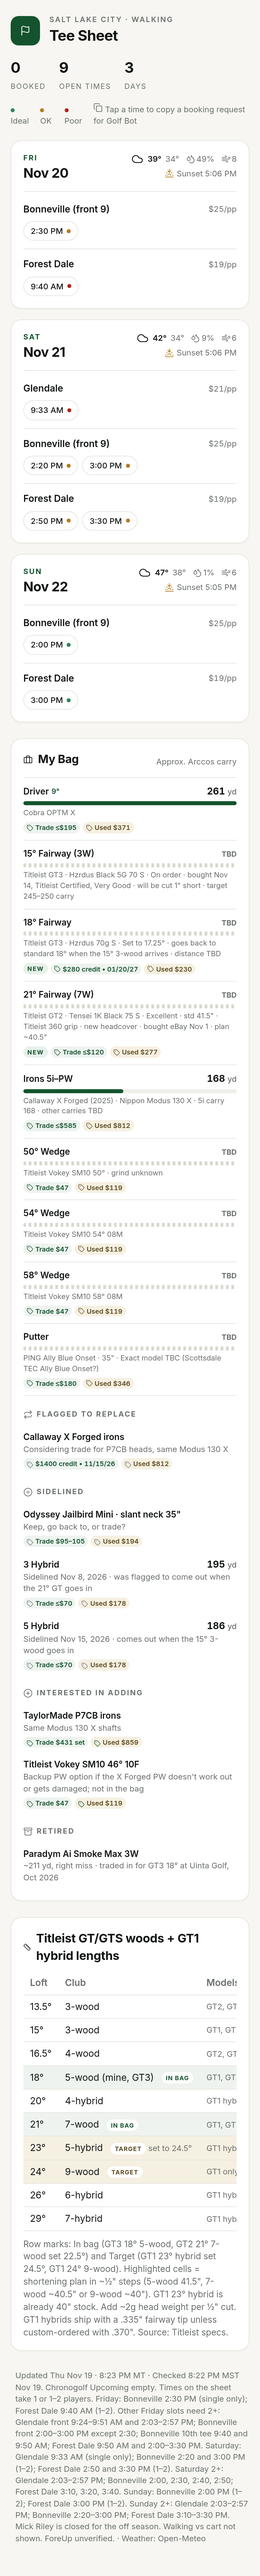
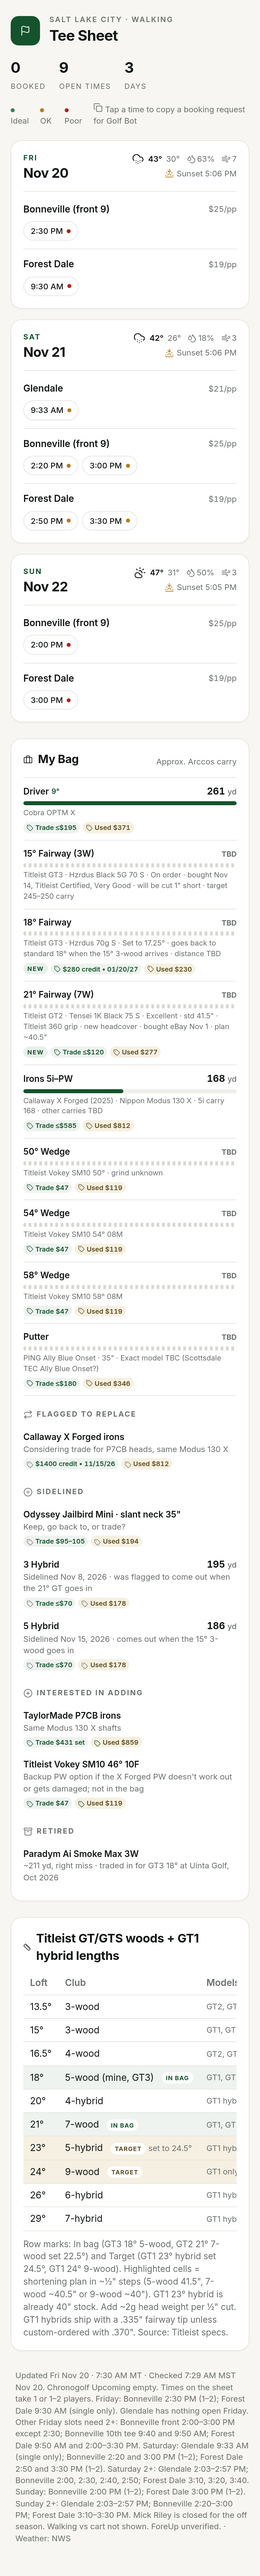
Update schedule 2026-11-20 07:30 MT

Changed region(s): [[0.0615, 0.9027, 0.9538, 0.9961]]

diff --git a/index.html b/index.html
@@ -49,8 +49,8 @@ ul{list-style:none;margin:0;padding:0}.ladder{border-top:1px solid var(--ln)}
 <div class="top"><div class="brand"><div class="logo"><i data-lucide="flag" class="ic "></i></div><div><div class="eyebrow">Salt Lake City · Walking</div><h1>Tee Sheet</h1></div></div>
 <div class="stats"><div class="stat"><b>0</b><span>Booked</span></div><div class="stat"><b>9</b><span>Open times</span></div><div class="stat"><b>3</b><span>Days</span></div></div></div>
 <div class="legend"><span><i class="dot ideal"></i>Ideal</span><span><i class="dot ok"></i>OK</span><span><i class="dot poor"></i>Poor</span><span><i data-lucide="copy" class="ic s"></i> Tap a time to copy a booking request for Golf Bot</span></div>
-<div class="layout"><div class="grid"><section class="card day"><header><div><div class="dow">Fri</div><div class="dt">Nov 20</div></div><div class="wxc"><div class="sum" title="☁ Overcast (7a–7p)"><i data-lucide="cloud" class="ic "></i><span class="hi">39°</span><span class="lo">34°</span><span class="m"><i data-lucide="droplets" class="ic s"></i>49%</span><span class="m"><i data-lucide="wind" class="ic s"></i>8</span></div><div class="sun"><i data-lucide="sunset" class="ic s"></i>Sunset 5:06 PM</div></div></header><div class="crs"><div class="row"><span class="cn">Bonneville (front 9)</span><span class="pr">$25/pp</span></div><div class="tts"><button class="tt ok" data-msg="Book Bonneville (front 9) Fri Nov 20 2:30 PM" title="☁ Overcast · 39°F · 14% precip · 5 mph · tap to copy booking request" aria-label="Copy: Book Bonneville (front 9) Fri Nov 20 2:30 PM" onclick="cp(this)"><span>2:30 PM</span><i class="dot"></i></button></div></div><div class="crs"><div class="row"><span class="cn">Forest Dale</span><span class="pr">$19/pp</span></div><div class="tts"><button class="tt poor" data-msg="Book Forest Dale Fri Nov 20 9:40 AM" title="☁ Overcast · 38°F · 22% precip · 2 mph · tap to copy booking request" aria-label="Copy: Book Forest Dale Fri Nov 20 9:40 AM" onclick="cp(this)"><span>9:40 AM</span><i class="dot"></i></button></div></div></section><section class="card day"><header><div><div class="dow">Sat</div><div class="dt">Nov 21</div></div><div class="wxc"><div class="sum" title="☁ Overcast (7a–7p)"><i data-lucide="cloud" class="ic "></i><span class="hi">42°</span><span class="lo">34°</span><span class="m"><i data-lucide="droplets" class="ic s"></i>9%</span><span class="m"><i data-lucide="wind" class="ic s"></i>6</span></div><div class="sun"><i data-lucide="sunset" class="ic s"></i>Sunset 5:06 PM</div></div></header><div class="crs"><div class="row"><span class="cn">Glendale</span><span class="pr">$21/pp</span></div><div class="tts"><button class="tt poor" data-msg="Book Glendale Sat Nov 21 9:33 AM" title="☁ Overcast · 36°F · 9% precip · 3 mph · tap to copy booking request" aria-label="Copy: Book Glendale Sat Nov 21 9:33 AM" onclick="cp(this)"><span>9:33 AM</span><i class="dot"></i></button></div></div><div class="crs"><div class="row"><span class="cn">Bonneville (front 9)</span><span class="pr">$25/pp</span></div><div class="tts"><button class="tt ok" data-msg="Book Bonneville (front 9) Sat Nov 21 2:20 PM" title="☀ Clear · 41°F · 1% precip · 3 mph · tap to copy booking request" aria-label="Copy: Book Bonneville (front 9) Sat Nov 21 2:20 PM" onclick="cp(this)"><span>2:20 PM</span><i class="dot"></i></button><button class="tt ok" data-msg="Book Bonneville (front 9) Sat Nov 21 3:00 PM" title="🌤 Mostly clear · 42°F · 1% precip · 4 mph · tap to copy booking request" aria-label="Copy: Book Bonneville (front 9) Sat Nov 21 3:00 PM" onclick="cp(this)"><span>3:00 PM</span><i class="dot"></i></button></div></div><div class="crs"><div class="row"><span class="cn">Forest Dale</span><span class="pr">$19/pp</span></div><div class="tts"><button class="tt ok" data-msg="Book Forest Dale Sat Nov 21 2:50 PM" title="☀ Clear · 41°F · 1% precip · 3 mph · tap to copy booking request" aria-label="Copy: Book Forest Dale Sat Nov 21 2:50 PM" onclick="cp(this)"><span>2:50 PM</span><i class="dot"></i></button><button class="tt ok" data-msg="Book Forest Dale Sat Nov 21 3:30 PM" title="🌤 Mostly clear · 42°F · 1% precip · 4 mph · tap to copy booking request" aria-label="Copy: Book Forest Dale Sat Nov 21 3:30 PM" onclick="cp(this)"><span>3:30 PM</span><i class="dot"></i></button></div></div></section><section class="card day"><header><div><div class="dow">Sun</div><div class="dt">Nov 22</div></div><div class="wxc"><div class="sum" title="☁ Overcast (7a–7p)"><i data-lucide="cloud" class="ic "></i><span class="hi">47°</span><span class="lo">38°</span><span class="m"><i data-lucide="droplets" class="ic s"></i>1%</span><span class="m"><i data-lucide="wind" class="ic s"></i>6</span></div><div class="sun"><i data-lucide="sunset" class="ic s"></i>Sunset 5:05 PM</div></div></header><div class="crs"><div class="row"><span class="cn">Bonneville (front 9)</span><span class="pr">$25/pp</span></div><div class="tts"><button class="tt ideal" data-msg="Book Bonneville (front 9) Sun Nov 22 2:00 PM" title="☁ Overcast · 47°F · 0% precip · 6 mph · tap to copy booking request" aria-label="Copy: Book Bonneville (front 9) Sun Nov 22 2:00 PM" onclick="cp(this)"><span>2:00 PM</span><i class="dot"></i></button></div></div><div class="crs"><div class="row"><span class="cn">Forest Dale</span><span class="pr">$19/pp</span></div><div class="tts"><button class="tt ideal" data-msg="Book Forest Dale Sun Nov 22 3:00 PM" title="☁ Overcast · 47°F · 0% precip · 5 mph · tap to copy booking request" aria-label="Copy: Book Forest Dale Sun Nov 22 3:00 PM" onclick="cp(this)"><span>3:00 PM</span><i class="dot"></i></button></div></div></section></div><section class="card bag"><header><h2><i data-lucide="briefcase" class="ic s"></i>My Bag</h2><span class="muted">Approx. Arccos carry</span></header><ul class="ladder"><li class="lad"><div class="l1"><div class="cname">Driver <small>9°</small></div><div class="yd">261 <small>yd</small></div></div><div class="bar"><span style="width:100%"></span></div><div class="muted">Cobra OPTM X</div><div class=bdg><span class="val" title="On in Two trade-in (up-to ceiling) · Cobra OPTM X driver · 2026-11-16"><i data-lucide="tag" class="ic xs"></i>Trade ≤$195</span><span class="val used" title="2nd Swing used OPTM X Stiff: 9° Mint $379.99 (Kai&#x27;li White 60), 10.5° Above Average $362.99 · 2026-11-02"><i data-lucide="tag" class="ic xs"></i>Used $371</span></div></li><li class="lad"><div class="l1"><div class="cname">15° Fairway (3W)</div><div class="yd muted">TBD</div></div><div class="bar tbd"><span></span></div><div class="muted">Titleist GT3 · Hzrdus Black 5G 70 S · On order · bought Nov 14, Titleist Certified, Very Good · will be cut 1&quot; short · target 245–250 carry</div></li><li class="lad"><div class="l1"><div class="cname">18° Fairway</div><div class="yd muted">TBD</div></div><div class="bar tbd"><span></span></div><div class="muted">Titleist GT3 · Hzrdus 70g S · Set to 17.25° · goes back to standard 18° when the 15° 3-wood arrives · distance TBD</div><div class=bdg><span class="pill sm">New</span><span class="val" title="Uinta Golf 90-day guarantee, bought Oct 22, 2026 · 2026-10-22"><i data-lucide="tag" class="ic xs"></i>$280 credit • 01/20/27</span><span class="val used" title="Global Golf used GT3 fairway Excellent $229.99; eBay sold GT3 18° 5W median $231 (Teeworth, 90 days) · 2026-10-26"><i data-lucide="tag" class="ic xs"></i>Used $230</span></div></li><li class="lad"><div class="l1"><div class="cname">21° Fairway (7W)</div><div class="yd muted">TBD</div></div><div class="bar tbd"><span></span></div><div class="muted">Titleist GT2 · Tensei 1K Black 75 S · Excellent · std 41.5&quot; · Titleist 360 grip · new headcover · bought eBay Nov 1 · plan ~40.5&quot;</div><div class=bdg><span class="pill sm">New</span><span class="val" title="On in Two trade-in (up-to ceiling, excellent) · Titleist GT2 fairway · 2026-11-16"><i data-lucide="tag" class="ic xs"></i>Trade ≤$120</span><span class="val used" title="Avg of Global Golf GT2 Very Good $264.99 and Next Round GT2 Excellent $289.99; eBay sold median $200 (45 sales, Face Value Golf) · 2026-10-26"><i data-lucide="tag" class="ic xs"></i>Used $277</span></div></li><li class="lad"><div class="l1"><div class="cname">Irons 5i–PW</div><div class="yd">168 <small>yd</small></div></div><div class="bar"><span style="width:47%"></span></div><div class="muted">Callaway X Forged (2025) · Nippon Modus 130 X · 5i carry 168 · other carries TBD</div><div class=bdg><span class="val" title="On in Two trade-in (up-to ceiling) · Callaway 2025 X Forged iron set; set composition/shaft not specified, so 5i–PW offer may differ · 2026-11-16"><i data-lucide="tag" class="ic xs"></i>Trade ≤$585</span><span class="val used" title="FairwayWire eBay sold avg, X Forged 2025 set (18 sales, mostly 4-PW, mixed shafts); Excellent/Very Good sales $986–$1,200 · 2026-10-26"><i data-lucide="tag" class="ic xs"></i>Used $812</span></div></li><li class="lad"><div class="l1"><div class="cname">50° Wedge</div><div class="yd muted">TBD</div></div><div class="bar tbd"><span></span></div><div class="muted">Titleist Vokey SM10 50° · grind unknown</div><div class=bdg><span class="val" title="2nd Swing store credit via Face Value Golf (SM10 family, avg cond., checked Nov 14); best cash $45–47 · 2026-11-16"><i data-lucide="tag" class="ic xs"></i>Trade $47</span><span class="val used" title="Titleist Certified Pre-Owned SM10 Excellent $119 · 2026-10-26"><i data-lucide="tag" class="ic xs"></i>Used $119</span></div></li><li class="lad"><div class="l1"><div class="cname">54° Wedge</div><div class="yd muted">TBD</div></div><div class="bar tbd"><span></span></div><div class="muted">Titleist Vokey SM10 54° 08M</div><div class=bdg><span class="val" title="2nd Swing store credit via Face Value Golf (SM10 family, avg cond., checked Nov 14); best cash $45–47 · 2026-11-16"><i data-lucide="tag" class="ic xs"></i>Trade $47</span><span class="val used" title="Titleist Certified Pre-Owned SM10 Excellent $119 · 2026-10-26"><i data-lucide="tag" class="ic xs"></i>Used $119</span></div></li><li class="lad"><div class="l1"><div class="cname">58° Wedge</div><div class="yd muted">TBD</div></div><div class="bar tbd"><span></span></div><div class="muted">Titleist Vokey SM10 58° 08M</div><div class=bdg><span class="val" title="2nd Swing store credit via Face Value Golf (SM10 family, avg cond., checked Nov 14); best cash $45–47 · 2026-11-16"><i data-lucide="tag" class="ic xs"></i>Trade $47</span><span class="val used" title="Titleist Certified Pre-Owned SM10 Excellent $119 · 2026-10-26"><i data-lucide="tag" class="ic xs"></i>Used $119</span></div></li><li class="lad"><div class="l1"><div class="cname">Putter</div><div class="yd muted">TBD</div></div><div class="bar tbd"><span></span></div><div class="muted">PING Ally Blue Onset · 35&quot; · Exact model TBC (Scottsdale TEC Ally Blue Onset?)</div><div class=bdg><span class="val" title="On in Two trade-in (up-to ceiling) · Scottsdale TEC Ally Blue Onset; PLD SE Ally Blue 4 Onset $185 · 2026-11-16"><i data-lucide="tag" class="ic xs"></i>Trade ≤$180</span><span class="val used" title="ClubChecks used target, Scottsdale TEC Ally Blue Onset; Carl&#x27;s Golfland 35&quot; Very Good $349.99 · 2026-10-26"><i data-lucide="tag" class="ic xs"></i>Used $346</span></div></li></ul><div class="subs"><div class="sub"><h3><i data-lucide="repeat" class="ic s"></i>Flagged to replace</h3><ul class="lst replace"><li><div class="it"><div class="l1"><div class="cname">Callaway X Forged irons</div></div><div class="muted">Considering trade for P7CB heads, same Modus 130 X</div><div class=bdg><span class="val" title="Jason: trade-in guarantee value, trade by Nov 15, 2026 (deadline approx., per Jason) · 2026-10-26"><i data-lucide="tag" class="ic xs"></i>$1400 credit • 11/15/26</span><span class="val used" title="FairwayWire eBay sold avg, X Forged 2025 set (18 sales, mostly 4-PW, mixed shafts); Excellent/Very Good sales $986–$1,200 · 2026-10-26"><i data-lucide="tag" class="ic xs"></i>Used $812</span></div></div></li></ul></div><div class="sub"><h3><i data-lucide="pause-circle" class="ic s"></i>Sidelined</h3><ul class="lst sidelined"><li><div class="it"><div class="l1"><div class="cname">Odyssey Jailbird Mini · slant neck 35&quot;</div></div><div class="muted">Keep, go back to, or trade?</div><div class=bdg><span class="val" title="On in Two trade-in ceilings: Ai-ONE Jailbird Mini S $95 – Ai-DUAL Jailbird Mini $105 (exact version TBC) · 2026-11-16"><i data-lucide="tag" class="ic xs"></i>Trade $95–105</span><span class="val used" title="Golf Club Index avg sold, Odyssey Ai-ONE Jailbird Mini (exact version TBC) · 2026-10-26"><i data-lucide="tag" class="ic xs"></i>Used $194</span></div></div></li><li><div class="it"><div class="l1"><div class="cname">3 Hybrid</div><div class=yd>195 <small>yd</small></div></div><div class="muted">Sidelined Nov 8, 2026 · was flagged to come out when the 21° GT goes in</div><div class=bdg><span class="val" title="On in Two trade-in (up-to ceiling) · 2026-11-16"><i data-lucide="tag" class="ic xs"></i>Trade ≤$70</span><span class="val used" title="Face Value Golf typical used asking, Paradym Super hybrid Above Average grade (Callaway Pre-Owned from $120 Avg) · 2026-10-26"><i data-lucide="tag" class="ic xs"></i>Used $178</span></div></div></li><li><div class="it"><div class="l1"><div class="cname">5 Hybrid</div><div class=yd>186 <small>yd</small></div></div><div class="muted">Sidelined Nov 15, 2026 · comes out when the 15° 3-wood goes in</div><div class=bdg><span class="val" title="On in Two trade-in (up-to ceiling) · 2026-11-16"><i data-lucide="tag" class="ic xs"></i>Trade ≤$70</span><span class="val used" title="Face Value Golf typical used asking, Paradym Super hybrid Above Average grade (Callaway Pre-Owned from $120 Avg) · 2026-10-26"><i data-lucide="tag" class="ic xs"></i>Used $178</span></div></div></li></ul></div><div class="sub"><h3><i data-lucide="plus-circle" class="ic s"></i>Interested in adding</h3><ul class="lst add"><li><div class="it"><div class="l1"><div class="cname">TaylorMade P7CB irons</div></div><div class="muted">Same Modus 130 X shafts</div><div class=bdg><span class="val" title="Face Value Golf: best cash offer, iGolf Value Guide, 7-club set, Average ($61.50/club), checked Oct 11 · 2026-10-26"><i data-lucide="tag" class="ic xs"></i>Trade $431 set</span><span class="val used" title="Face Value Golf typical used asking, 7-club set, median of 44 listings (Average or better), checked Oct 11; Global Golf Average 4-PW $760 · 2026-10-26"><i data-lucide="tag" class="ic xs"></i>Used $859</span></div></div></li><li><div class="it"><div class="l1"><div class="cname">Titleist Vokey SM10 46° 10F</div></div><div class="muted">Backup PW option if the X Forged PW doesn&#x27;t work out or gets damaged; not in the bag</div><div class=bdg><span class="val" title="2nd Swing store credit via Face Value Golf (SM10 family, avg cond.) · 2026-10-23"><i data-lucide="tag" class="ic xs"></i>Trade $47</span><span class="val used" title="Titleist Certified Pre-Owned SM10 Excellent $119 · 2026-10-26"><i data-lucide="tag" class="ic xs"></i>Used $119</span></div></div></li></ul></div><div class="sub"><h3><i data-lucide="archive" class="ic s"></i>Retired</h3><ul class="lst retired"><li><div class="it"><div class="l1"><div class="cname">Paradym Ai Smoke Max 3W</div></div><div class="muted">~211 yd, right miss · traded in for GT3 18° at Uinta Golf, Oct 2026</div></div></li></ul></div></div></section></div><section class="card lenchart"><header><h2><i data-lucide="ruler" class="ic s"></i>Titleist GT/GTS woods + GT1 hybrid lengths</h2></header><div class="tw"><table><thead><tr><th>Loft</th><th>Club</th><th>Models</th><th>Std</th><th>−½"</th><th>−1"</th></tr></thead><tbody><tr><td>13.5°</td><td>3-wood</td><td class="muted">GT2, GTS2</td><td>43"</td><td>42.5"</td><td>42"</td></tr><tr><td>15°</td><td>3-wood</td><td class="muted">GT1, GT2, GT3, GTS</td><td>43"</td><td>42.5"</td><td>42"</td></tr><tr><td>16.5°</td><td>4-wood</td><td class="muted">GT2, GT3, GTS</td><td>43"</td><td>42.5"</td><td>42"</td></tr><tr class="inbag"><td>18°</td><td>5-wood (mine, GT3) <span class="mtag">In bag</span></td><td class="muted">GT1, GT2, GT3, GTS</td><td>42"</td><td class=hl>41.5"</td><td>41"</td></tr><tr><td>20°</td><td>4-hybrid</td><td class="muted">GT1 hybrid</td><td>40.5"</td><td>40"</td><td>39.5"</td></tr><tr class="inbag"><td>21°</td><td>7-wood <span class="mtag">In bag</span></td><td class="muted">GT1, GT2, GTS</td><td>41.5"</td><td>41"</td><td class=hl>40.5"</td></tr><tr class="target"><td>23°</td><td>5-hybrid <span class="mtag">Target</span> <span class="muted">set to 24.5°</span></td><td class="muted">GT1 hybrid</td><td>40"</td><td>39.5"</td><td>39"</td></tr><tr class="target"><td>24°</td><td>9-wood <span class="mtag">Target</span></td><td class="muted">GT1 only</td><td>41"</td><td>40.5"</td><td class=hl>40"</td></tr><tr><td>26°</td><td>6-hybrid</td><td class="muted">GT1 hybrid</td><td>39.5"</td><td>39"</td><td>38.5"</td></tr><tr><td>29°</td><td>7-hybrid</td><td class="muted">GT1 hybrid</td><td>39"</td><td>38.5"</td><td>38"</td></tr></tbody></table></div><p class="muted">Row marks: In bag (GT3 18° 5-wood, GT2 21° 7-wood set 22.5°) and Target (GT1 23° hybrid set 24.5°, GT1 24° 9-wood). Highlighted cells = shortening plan in ~½" steps (5-wood 41.5", 7-wood ~40.5" or 9-wood ~40"). GT1 23° hybrid is already 40" stock. Add ~2g head weight per ½" cut. GT1 hybrids ship with a .335" fairway tip unless custom-ordered with .370". Source: Titleist specs.</p></section>
-<div class="foot"><i data-lucide="refresh-cw" class="ic s"></i>Updated Thu Nov 19 · 8:23 PM MT · Checked 8:22 PM MST Nov 19. Chronogolf Upcoming empty. Times on the sheet take 1 or 1–2 players. Friday: Bonneville 2:30 PM (single only); Forest Dale 9:40 AM (1–2). Other Friday slots need 2+: Glendale front 9:24–9:51 AM and 2:03–2:57 PM; Bonneville front 2:00–3:00 PM except 2:30; Bonneville 10th tee 9:40 and 9:50 AM; Forest Dale 9:50 AM and 2:00–3:30 PM. Saturday: Glendale 9:33 AM (single only); Bonneville 2:20 and 3:00 PM (1–2); Forest Dale 2:50 and 3:30 PM (1–2). Saturday 2+: Glendale 2:03–2:57 PM; Bonneville 2:00, 2:30, 2:40, 2:50; Forest Dale 3:10, 3:20, 3:40. Sunday: Bonneville 2:00 PM (1–2); Forest Dale 3:00 PM (1–2). Sunday 2+: Glendale 2:03–2:57 PM; Bonneville 2:20–3:00 PM; Forest Dale 3:10–3:30 PM. Mick Riley is closed for the off season. Walking vs cart not shown. ForeUp unverified. · Weather: Open-Meteo</div></div>
+<div class="layout"><div class="grid"><section class="card day"><header><div><div class="dow">Fri</div><div class="dt">Nov 20</div></div><div class="wxc"><div class="sum" title="🌨 Snow (7a–7p)"><i data-lucide="cloud-snow" class="ic "></i><span class="hi">43°</span><span class="lo">30°</span><span class="m"><i data-lucide="droplets" class="ic s"></i>63%</span><span class="m"><i data-lucide="wind" class="ic s"></i>7</span></div><div class="sun"><i data-lucide="sunset" class="ic s"></i>Sunset 5:06 PM</div></div></header><div class="crs"><div class="row"><span class="cn">Bonneville (front 9)</span><span class="pr">$25/pp</span></div><div class="tts"><button class="tt poor" data-msg="Book Bonneville (front 9) Fri Nov 20 2:30 PM" title="🌨 Snow · 43°F · 63% precip · 7 mph · tap to copy booking request" aria-label="Copy: Book Bonneville (front 9) Fri Nov 20 2:30 PM" onclick="cp(this)"><span>2:30 PM</span><i class="dot"></i></button></div></div><div class="crs"><div class="row"><span class="cn">Forest Dale</span><span class="pr">$19/pp</span></div><div class="tts"><button class="tt poor" data-msg="Book Forest Dale Fri Nov 20 9:30 AM" title="🌨 Snow · 43°F · 63% precip · 7 mph · tap to copy booking request" aria-label="Copy: Book Forest Dale Fri Nov 20 9:30 AM" onclick="cp(this)"><span>9:30 AM</span><i class="dot"></i></button></div></div></section><section class="card day"><header><div><div class="dow">Sat</div><div class="dt">Nov 21</div></div><div class="wxc"><div class="sum" title="🌨 Snow (7a–7p)"><i data-lucide="cloud-snow" class="ic "></i><span class="hi">42°</span><span class="lo">26°</span><span class="m"><i data-lucide="droplets" class="ic s"></i>18%</span><span class="m"><i data-lucide="wind" class="ic s"></i>3</span></div><div class="sun"><i data-lucide="sunset" class="ic s"></i>Sunset 5:06 PM</div></div></header><div class="crs"><div class="row"><span class="cn">Glendale</span><span class="pr">$21/pp</span></div><div class="tts"><button class="tt ok" data-msg="Book Glendale Sat Nov 21 9:33 AM" title="🌨 Snow · 42°F · 18% precip · 3 mph · tap to copy booking request" aria-label="Copy: Book Glendale Sat Nov 21 9:33 AM" onclick="cp(this)"><span>9:33 AM</span><i class="dot"></i></button></div></div><div class="crs"><div class="row"><span class="cn">Bonneville (front 9)</span><span class="pr">$25/pp</span></div><div class="tts"><button class="tt ok" data-msg="Book Bonneville (front 9) Sat Nov 21 2:20 PM" title="🌨 Snow · 42°F · 18% precip · 3 mph · tap to copy booking request" aria-label="Copy: Book Bonneville (front 9) Sat Nov 21 2:20 PM" onclick="cp(this)"><span>2:20 PM</span><i class="dot"></i></button><button class="tt ok" data-msg="Book Bonneville (front 9) Sat Nov 21 3:00 PM" title="🌨 Snow · 42°F · 18% precip · 3 mph · tap to copy booking request" aria-label="Copy: Book Bonneville (front 9) Sat Nov 21 3:00 PM" onclick="cp(this)"><span>3:00 PM</span><i class="dot"></i></button></div></div><div class="crs"><div class="row"><span class="cn">Forest Dale</span><span class="pr">$19/pp</span></div><div class="tts"><button class="tt ok" data-msg="Book Forest Dale Sat Nov 21 2:50 PM" title="🌨 Snow · 42°F · 18% precip · 3 mph · tap to copy booking request" aria-label="Copy: Book Forest Dale Sat Nov 21 2:50 PM" onclick="cp(this)"><span>2:50 PM</span><i class="dot"></i></button><button class="tt ok" data-msg="Book Forest Dale Sat Nov 21 3:30 PM" title="🌨 Snow · 42°F · 18% precip · 3 mph · tap to copy booking request" aria-label="Copy: Book Forest Dale Sat Nov 21 3:30 PM" onclick="cp(this)"><span>3:30 PM</span><i class="dot"></i></button></div></div></section><section class="card day"><header><div><div class="dow">Sun</div><div class="dt">Nov 22</div></div><div class="wxc"><div class="sum" title="⛅ Partly cloudy (7a–7p)"><i data-lucide="cloud-sun" class="ic "></i><span class="hi">47°</span><span class="lo">31°</span><span class="m"><i data-lucide="droplets" class="ic s"></i>50%</span><span class="m"><i data-lucide="wind" class="ic s"></i>3</span></div><div class="sun"><i data-lucide="sunset" class="ic s"></i>Sunset 5:05 PM</div></div></header><div class="crs"><div class="row"><span class="cn">Bonneville (front 9)</span><span class="pr">$25/pp</span></div><div class="tts"><button class="tt poor" data-msg="Book Bonneville (front 9) Sun Nov 22 2:00 PM" title="⛅ Partly cloudy · 47°F · 50% precip · 3 mph · tap to copy booking request" aria-label="Copy: Book Bonneville (front 9) Sun Nov 22 2:00 PM" onclick="cp(this)"><span>2:00 PM</span><i class="dot"></i></button></div></div><div class="crs"><div class="row"><span class="cn">Forest Dale</span><span class="pr">$19/pp</span></div><div class="tts"><button class="tt poor" data-msg="Book Forest Dale Sun Nov 22 3:00 PM" title="⛅ Partly cloudy · 47°F · 50% precip · 3 mph · tap to copy booking request" aria-label="Copy: Book Forest Dale Sun Nov 22 3:00 PM" onclick="cp(this)"><span>3:00 PM</span><i class="dot"></i></button></div></div></section></div><section class="card bag"><header><h2><i data-lucide="briefcase" class="ic s"></i>My Bag</h2><span class="muted">Approx. Arccos carry</span></header><ul class="ladder"><li class="lad"><div class="l1"><div class="cname">Driver <small>9°</small></div><div class="yd">261 <small>yd</small></div></div><div class="bar"><span style="width:100%"></span></div><div class="muted">Cobra OPTM X</div><div class=bdg><span class="val" title="On in Two trade-in (up-to ceiling) · Cobra OPTM X driver · 2026-11-16"><i data-lucide="tag" class="ic xs"></i>Trade ≤$195</span><span class="val used" title="2nd Swing used OPTM X Stiff: 9° Mint $379.99 (Kai&#x27;li White 60), 10.5° Above Average $362.99 · 2026-11-02"><i data-lucide="tag" class="ic xs"></i>Used $371</span></div></li><li class="lad"><div class="l1"><div class="cname">15° Fairway (3W)</div><div class="yd muted">TBD</div></div><div class="bar tbd"><span></span></div><div class="muted">Titleist GT3 · Hzrdus Black 5G 70 S · On order · bought Nov 14, Titleist Certified, Very Good · will be cut 1&quot; short · target 245–250 carry</div></li><li class="lad"><div class="l1"><div class="cname">18° Fairway</div><div class="yd muted">TBD</div></div><div class="bar tbd"><span></span></div><div class="muted">Titleist GT3 · Hzrdus 70g S · Set to 17.25° · goes back to standard 18° when the 15° 3-wood arrives · distance TBD</div><div class=bdg><span class="pill sm">New</span><span class="val" title="Uinta Golf 90-day guarantee, bought Oct 22, 2026 · 2026-10-22"><i data-lucide="tag" class="ic xs"></i>$280 credit • 01/20/27</span><span class="val used" title="Global Golf used GT3 fairway Excellent $229.99; eBay sold GT3 18° 5W median $231 (Teeworth, 90 days) · 2026-10-26"><i data-lucide="tag" class="ic xs"></i>Used $230</span></div></li><li class="lad"><div class="l1"><div class="cname">21° Fairway (7W)</div><div class="yd muted">TBD</div></div><div class="bar tbd"><span></span></div><div class="muted">Titleist GT2 · Tensei 1K Black 75 S · Excellent · std 41.5&quot; · Titleist 360 grip · new headcover · bought eBay Nov 1 · plan ~40.5&quot;</div><div class=bdg><span class="pill sm">New</span><span class="val" title="On in Two trade-in (up-to ceiling, excellent) · Titleist GT2 fairway · 2026-11-16"><i data-lucide="tag" class="ic xs"></i>Trade ≤$120</span><span class="val used" title="Avg of Global Golf GT2 Very Good $264.99 and Next Round GT2 Excellent $289.99; eBay sold median $200 (45 sales, Face Value Golf) · 2026-10-26"><i data-lucide="tag" class="ic xs"></i>Used $277</span></div></li><li class="lad"><div class="l1"><div class="cname">Irons 5i–PW</div><div class="yd">168 <small>yd</small></div></div><div class="bar"><span style="width:47%"></span></div><div class="muted">Callaway X Forged (2025) · Nippon Modus 130 X · 5i carry 168 · other carries TBD</div><div class=bdg><span class="val" title="On in Two trade-in (up-to ceiling) · Callaway 2025 X Forged iron set; set composition/shaft not specified, so 5i–PW offer may differ · 2026-11-16"><i data-lucide="tag" class="ic xs"></i>Trade ≤$585</span><span class="val used" title="FairwayWire eBay sold avg, X Forged 2025 set (18 sales, mostly 4-PW, mixed shafts); Excellent/Very Good sales $986–$1,200 · 2026-10-26"><i data-lucide="tag" class="ic xs"></i>Used $812</span></div></li><li class="lad"><div class="l1"><div class="cname">50° Wedge</div><div class="yd muted">TBD</div></div><div class="bar tbd"><span></span></div><div class="muted">Titleist Vokey SM10 50° · grind unknown</div><div class=bdg><span class="val" title="2nd Swing store credit via Face Value Golf (SM10 family, avg cond., checked Nov 14); best cash $45–47 · 2026-11-16"><i data-lucide="tag" class="ic xs"></i>Trade $47</span><span class="val used" title="Titleist Certified Pre-Owned SM10 Excellent $119 · 2026-10-26"><i data-lucide="tag" class="ic xs"></i>Used $119</span></div></li><li class="lad"><div class="l1"><div class="cname">54° Wedge</div><div class="yd muted">TBD</div></div><div class="bar tbd"><span></span></div><div class="muted">Titleist Vokey SM10 54° 08M</div><div class=bdg><span class="val" title="2nd Swing store credit via Face Value Golf (SM10 family, avg cond., checked Nov 14); best cash $45–47 · 2026-11-16"><i data-lucide="tag" class="ic xs"></i>Trade $47</span><span class="val used" title="Titleist Certified Pre-Owned SM10 Excellent $119 · 2026-10-26"><i data-lucide="tag" class="ic xs"></i>Used $119</span></div></li><li class="lad"><div class="l1"><div class="cname">58° Wedge</div><div class="yd muted">TBD</div></div><div class="bar tbd"><span></span></div><div class="muted">Titleist Vokey SM10 58° 08M</div><div class=bdg><span class="val" title="2nd Swing store credit via Face Value Golf (SM10 family, avg cond., checked Nov 14); best cash $45–47 · 2026-11-16"><i data-lucide="tag" class="ic xs"></i>Trade $47</span><span class="val used" title="Titleist Certified Pre-Owned SM10 Excellent $119 · 2026-10-26"><i data-lucide="tag" class="ic xs"></i>Used $119</span></div></li><li class="lad"><div class="l1"><div class="cname">Putter</div><div class="yd muted">TBD</div></div><div class="bar tbd"><span></span></div><div class="muted">PING Ally Blue Onset · 35&quot; · Exact model TBC (Scottsdale TEC Ally Blue Onset?)</div><div class=bdg><span class="val" title="On in Two trade-in (up-to ceiling) · Scottsdale TEC Ally Blue Onset; PLD SE Ally Blue 4 Onset $185 · 2026-11-16"><i data-lucide="tag" class="ic xs"></i>Trade ≤$180</span><span class="val used" title="ClubChecks used target, Scottsdale TEC Ally Blue Onset; Carl&#x27;s Golfland 35&quot; Very Good $349.99 · 2026-10-26"><i data-lucide="tag" class="ic xs"></i>Used $346</span></div></li></ul><div class="subs"><div class="sub"><h3><i data-lucide="repeat" class="ic s"></i>Flagged to replace</h3><ul class="lst replace"><li><div class="it"><div class="l1"><div class="cname">Callaway X Forged irons</div></div><div class="muted">Considering trade for P7CB heads, same Modus 130 X</div><div class=bdg><span class="val" title="Jason: trade-in guarantee value, trade by Nov 15, 2026 (deadline approx., per Jason) · 2026-10-26"><i data-lucide="tag" class="ic xs"></i>$1400 credit • 11/15/26</span><span class="val used" title="FairwayWire eBay sold avg, X Forged 2025 set (18 sales, mostly 4-PW, mixed shafts); Excellent/Very Good sales $986–$1,200 · 2026-10-26"><i data-lucide="tag" class="ic xs"></i>Used $812</span></div></div></li></ul></div><div class="sub"><h3><i data-lucide="pause-circle" class="ic s"></i>Sidelined</h3><ul class="lst sidelined"><li><div class="it"><div class="l1"><div class="cname">Odyssey Jailbird Mini · slant neck 35&quot;</div></div><div class="muted">Keep, go back to, or trade?</div><div class=bdg><span class="val" title="On in Two trade-in ceilings: Ai-ONE Jailbird Mini S $95 – Ai-DUAL Jailbird Mini $105 (exact version TBC) · 2026-11-16"><i data-lucide="tag" class="ic xs"></i>Trade $95–105</span><span class="val used" title="Golf Club Index avg sold, Odyssey Ai-ONE Jailbird Mini (exact version TBC) · 2026-10-26"><i data-lucide="tag" class="ic xs"></i>Used $194</span></div></div></li><li><div class="it"><div class="l1"><div class="cname">3 Hybrid</div><div class=yd>195 <small>yd</small></div></div><div class="muted">Sidelined Nov 8, 2026 · was flagged to come out when the 21° GT goes in</div><div class=bdg><span class="val" title="On in Two trade-in (up-to ceiling) · 2026-11-16"><i data-lucide="tag" class="ic xs"></i>Trade ≤$70</span><span class="val used" title="Face Value Golf typical used asking, Paradym Super hybrid Above Average grade (Callaway Pre-Owned from $120 Avg) · 2026-10-26"><i data-lucide="tag" class="ic xs"></i>Used $178</span></div></div></li><li><div class="it"><div class="l1"><div class="cname">5 Hybrid</div><div class=yd>186 <small>yd</small></div></div><div class="muted">Sidelined Nov 15, 2026 · comes out when the 15° 3-wood goes in</div><div class=bdg><span class="val" title="On in Two trade-in (up-to ceiling) · 2026-11-16"><i data-lucide="tag" class="ic xs"></i>Trade ≤$70</span><span class="val used" title="Face Value Golf typical used asking, Paradym Super hybrid Above Average grade (Callaway Pre-Owned from $120 Avg) · 2026-10-26"><i data-lucide="tag" class="ic xs"></i>Used $178</span></div></div></li></ul></div><div class="sub"><h3><i data-lucide="plus-circle" class="ic s"></i>Interested in adding</h3><ul class="lst add"><li><div class="it"><div class="l1"><div class="cname">TaylorMade P7CB irons</div></div><div class="muted">Same Modus 130 X shafts</div><div class=bdg><span class="val" title="Face Value Golf: best cash offer, iGolf Value Guide, 7-club set, Average ($61.50/club), checked Oct 11 · 2026-10-26"><i data-lucide="tag" class="ic xs"></i>Trade $431 set</span><span class="val used" title="Face Value Golf typical used asking, 7-club set, median of 44 listings (Average or better), checked Oct 11; Global Golf Average 4-PW $760 · 2026-10-26"><i data-lucide="tag" class="ic xs"></i>Used $859</span></div></div></li><li><div class="it"><div class="l1"><div class="cname">Titleist Vokey SM10 46° 10F</div></div><div class="muted">Backup PW option if the X Forged PW doesn&#x27;t work out or gets damaged; not in the bag</div><div class=bdg><span class="val" title="2nd Swing store credit via Face Value Golf (SM10 family, avg cond.) · 2026-10-23"><i data-lucide="tag" class="ic xs"></i>Trade $47</span><span class="val used" title="Titleist Certified Pre-Owned SM10 Excellent $119 · 2026-10-26"><i data-lucide="tag" class="ic xs"></i>Used $119</span></div></div></li></ul></div><div class="sub"><h3><i data-lucide="archive" class="ic s"></i>Retired</h3><ul class="lst retired"><li><div class="it"><div class="l1"><div class="cname">Paradym Ai Smoke Max 3W</div></div><div class="muted">~211 yd, right miss · traded in for GT3 18° at Uinta Golf, Oct 2026</div></div></li></ul></div></div></section></div><section class="card lenchart"><header><h2><i data-lucide="ruler" class="ic s"></i>Titleist GT/GTS woods + GT1 hybrid lengths</h2></header><div class="tw"><table><thead><tr><th>Loft</th><th>Club</th><th>Models</th><th>Std</th><th>−½"</th><th>−1"</th></tr></thead><tbody><tr><td>13.5°</td><td>3-wood</td><td class="muted">GT2, GTS2</td><td>43"</td><td>42.5"</td><td>42"</td></tr><tr><td>15°</td><td>3-wood</td><td class="muted">GT1, GT2, GT3, GTS</td><td>43"</td><td>42.5"</td><td>42"</td></tr><tr><td>16.5°</td><td>4-wood</td><td class="muted">GT2, GT3, GTS</td><td>43"</td><td>42.5"</td><td>42"</td></tr><tr class="inbag"><td>18°</td><td>5-wood (mine, GT3) <span class="mtag">In bag</span></td><td class="muted">GT1, GT2, GT3, GTS</td><td>42"</td><td class=hl>41.5"</td><td>41"</td></tr><tr><td>20°</td><td>4-hybrid</td><td class="muted">GT1 hybrid</td><td>40.5"</td><td>40"</td><td>39.5"</td></tr><tr class="inbag"><td>21°</td><td>7-wood <span class="mtag">In bag</span></td><td class="muted">GT1, GT2, GTS</td><td>41.5"</td><td>41"</td><td class=hl>40.5"</td></tr><tr class="target"><td>23°</td><td>5-hybrid <span class="mtag">Target</span> <span class="muted">set to 24.5°</span></td><td class="muted">GT1 hybrid</td><td>40"</td><td>39.5"</td><td>39"</td></tr><tr class="target"><td>24°</td><td>9-wood <span class="mtag">Target</span></td><td class="muted">GT1 only</td><td>41"</td><td>40.5"</td><td class=hl>40"</td></tr><tr><td>26°</td><td>6-hybrid</td><td class="muted">GT1 hybrid</td><td>39.5"</td><td>39"</td><td>38.5"</td></tr><tr><td>29°</td><td>7-hybrid</td><td class="muted">GT1 hybrid</td><td>39"</td><td>38.5"</td><td>38"</td></tr></tbody></table></div><p class="muted">Row marks: In bag (GT3 18° 5-wood, GT2 21° 7-wood set 22.5°) and Target (GT1 23° hybrid set 24.5°, GT1 24° 9-wood). Highlighted cells = shortening plan in ~½" steps (5-wood 41.5", 7-wood ~40.5" or 9-wood ~40"). GT1 23° hybrid is already 40" stock. Add ~2g head weight per ½" cut. GT1 hybrids ship with a .335" fairway tip unless custom-ordered with .370". Source: Titleist specs.</p></section>
+<div class="foot"><i data-lucide="refresh-cw" class="ic s"></i>Updated Fri Nov 20 · 7:30 AM MT · Checked 7:29 AM MST Nov 20. Chronogolf Upcoming empty. Times on the sheet take 1 or 1–2 players. Friday: Bonneville 2:30 PM (1–2); Forest Dale 9:30 AM (single only). Glendale has nothing open Friday. Other Friday slots need 2+: Bonneville front 2:00–3:00 PM except 2:30; Bonneville 10th tee 9:40 and 9:50 AM; Forest Dale 9:50 AM and 2:00–3:30 PM. Saturday: Glendale 9:33 AM (single only); Bonneville 2:20 and 3:00 PM (1–2); Forest Dale 2:50 and 3:30 PM (1–2). Saturday 2+: Glendale 2:03–2:57 PM; Bonneville 2:00, 2:30, 2:40, 2:50; Forest Dale 3:10, 3:20, 3:40. Sunday: Bonneville 2:00 PM (1–2); Forest Dale 3:00 PM (1–2). Sunday 2+: Glendale 2:03–2:57 PM; Bonneville 2:20–3:00 PM; Forest Dale 3:10–3:30 PM. Mick Riley is closed for the off season. Walking vs cart not shown. ForeUp unverified. · Weather: NWS</div></div>
 <div class="toast" id="toast" role="status"><i data-lucide="check" class="ic s"></i><span>Copied — paste in Golf Bot chat</span></div>
 <script>
 function cp(b){navigator.clipboard&&navigator.clipboard.writeText(b.dataset.msg);b.classList.add('copied');const t=document.getElementById('toast');t.classList.add('on');setTimeout(()=>{b.classList.remove('copied');t.classList.remove('on')},1600)}
